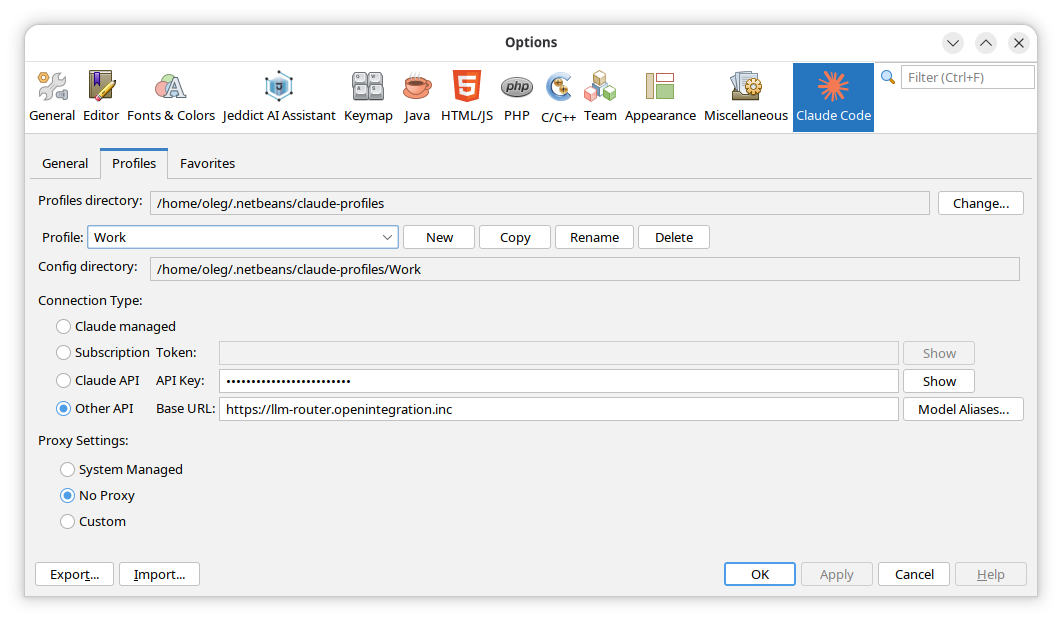
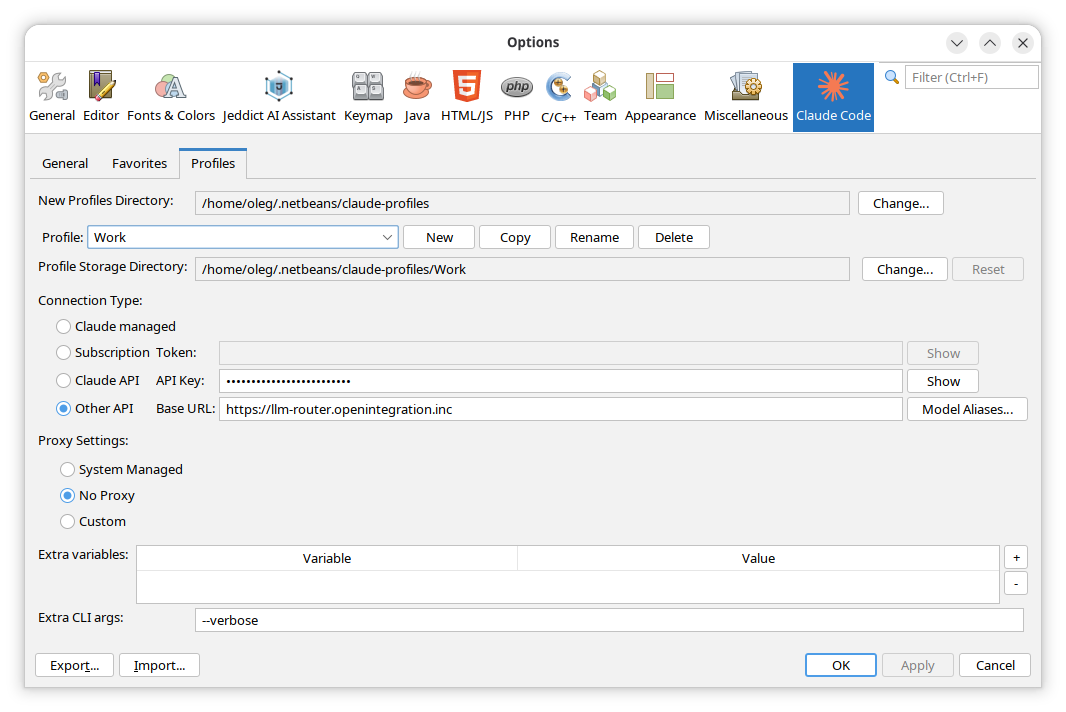
Added capability of changing the profile storage directory and sharing a single directory with several profiles (#9)
When a non-default profile's storage directory is explicitly set to the
same path as the default (~/.claude), the plugin no longer sets
CLAUDE_CONFIG_DIR — Claude already uses that directory without any
override.

diff --git a/src/main/java/io/github/nbclaudecodegui/settings/ClaudeProfilesPanel.java b/src/main/java/io/github/nbclaudecodegui/settings/ClaudeProfilesPanel.java
@@ -88,8 +88,12 @@ public final class ClaudeProfilesPanel extends JPanel {
     private JButton renameButton;
     /** Button to delete the current profile. */
     private JButton deleteButton;
-    /** Field showing the configuration directory for the selected profile. */
-    private JTextField configDirField;
+    /** Field showing the storage directory for the selected profile. */
+    private JTextField storageDirField;
+    /** Button to set a custom storage directory for the selected profile. */
+    private JButton changeStorageDirButton;
+    /** Button to reset the storage directory to the computed default. */
+    private JButton resetStorageDirButton;
     /** Field for extra CLI arguments passed to the claude process. */
     private JTextField extraCliArgsField;
 
@@ -224,13 +228,19 @@ public final class ClaudeProfilesPanel extends JPanel {
         mainPanel.add(profileRow, rowGbc);
         row++;
 
-        // --- Config directory (read-only) ---
+        // --- Storage directory row ---
         mainPanel.add(new JLabel("Profile Storage Directory:"), gbc(0, row, false));
-        configDirField = new JTextField(40);
-        configDirField.setEditable(false);
-        GridBagConstraints cfgGbc = gbcFill(1, row);
-        cfgGbc.gridwidth = 2;
-        mainPanel.add(configDirField, cfgGbc);
+        storageDirField = new JTextField(40);
+        storageDirField.setEditable(false);
+        mainPanel.add(storageDirField, gbcFill(1, row));
+        JPanel storageDirButtons = new JPanel(new FlowLayout(FlowLayout.LEFT, 4, 0));
+        changeStorageDirButton = new JButton("Change\u2026");
+        changeStorageDirButton.addActionListener(e -> onChangeStorageDir());
+        resetStorageDirButton = new JButton("Reset");
+        resetStorageDirButton.addActionListener(e -> onResetStorageDir());
+        storageDirButtons.add(changeStorageDirButton);
+        storageDirButtons.add(resetStorageDirButton);
+        mainPanel.add(storageDirButtons, gbc(2, row, false));
         row++;
 
         // --- Connection type section ---
@@ -626,13 +636,8 @@ public final class ClaudeProfilesPanel extends JPanel {
         renameButton.setEnabled(!def);
         deleteButton.setEnabled(!def);
 
-        // Config directory
-        if (def) {
-            configDirField.setText("~/.claude  (not overridden)");
-        } else {
-            Path profilesDir = ClaudeCodePreferences.getProfilesDir();
-            configDirField.setText(ClaudeProfileStore.resolveConfigDir(p, profilesDir).toAbsolutePath().toString());
-        }
+        // Storage directory
+        refreshStorageDirField(p);
 
         // Connection type
         ClaudeProfile.ConnectionType ct = p.computeConnectionType();
@@ -810,6 +815,46 @@ public final class ClaudeProfilesPanel extends JPanel {
             // Refresh config dir display for current profile
             ClaudeProfile p = currentProfile();
             if (p != null) loadProfileIntoForm(p);
+        }
+    }
+
+    private void onChangeStorageDir() {
+        ClaudeProfile p = currentFormProfile;
+        if (p == null || p.isDefault()) return;
+        JFileChooser chooser = new JFileChooser();
+        chooser.setFileSelectionMode(JFileChooser.DIRECTORIES_ONLY);
+        String current = p.getStorageDir();
+        if (!current.isBlank()) {
+            chooser.setCurrentDirectory(new File(current));
+        } else {
+            Path profilesDir = ClaudeCodePreferences.getProfilesDir();
+            chooser.setCurrentDirectory(ClaudeProfileStore.resolveStorageDir(p, profilesDir).toFile());
+        }
+        if (chooser.showOpenDialog(this) == JFileChooser.APPROVE_OPTION) {
+            p.withStorageDir(chooser.getSelectedFile().getAbsolutePath());
+            refreshStorageDirField(p);
+        }
+    }
+
+    private void onResetStorageDir() {
+        ClaudeProfile p = currentFormProfile;
+        if (p == null || p.isDefault()) return;
+        p.withStorageDir("");
+        refreshStorageDirField(p);
+    }
+
+    private void refreshStorageDirField(ClaudeProfile p) {
+        if (p.isDefault()) {
+            storageDirField.setText("~/.claude  (not overridden)");
+            changeStorageDirButton.setEnabled(false);
+            resetStorageDirButton.setEnabled(false);
+        } else {
+            Path profilesDir = ClaudeCodePreferences.getProfilesDir();
+            String resolved = ClaudeProfileStore.resolveStorageDir(p, profilesDir).toAbsolutePath().toString();
+            boolean isCustom = !p.getStorageDir().isBlank();
+            storageDirField.setText(isCustom ? resolved + "  (custom)" : resolved);
+            changeStorageDirButton.setEnabled(true);
+            resetStorageDirButton.setEnabled(isCustom);
         }
     }
 

diff --git a/src/main/java/io/github/nbclaudecodegui/settings/ClaudeProfile.java b/src/main/java/io/github/nbclaudecodegui/settings/ClaudeProfile.java
@@ -150,6 +150,13 @@ public final class ClaudeProfile {
      */
     private String extraCliArgs;
 
+    /**
+     * Explicit storage directory for {@code CLAUDE_CONFIG_DIR}.
+     * When blank, the computed path {@code <profilesDir>/<id>} is used.
+     * When non-blank, this exact path is used as-is.
+     */
+    private String storageDir;
+
     // -------------------------------------------------------------------------
     // No-arg constructor (Jackson)
     // -------------------------------------------------------------------------
@@ -169,6 +176,7 @@ public final class ClaudeProfile {
         this.modelAliases  = new HashMap<>();
         this.customModels  = new ArrayList<>();
         this.extraCliArgs  = "";
+        this.storageDir    = "";
     }
 
     // -------------------------------------------------------------------------
@@ -545,6 +553,35 @@ public final class ClaudeProfile {
      */
     public void setExtraCliArgs(String extraCliArgs) {
         this.extraCliArgs = extraCliArgs != null ? extraCliArgs : "";
+    }
+
+    /**
+     * Returns the explicit storage directory for {@code CLAUDE_CONFIG_DIR}.
+     * A blank value means the computed path {@code <profilesDir>/<id>} is used.
+     *
+     * @return explicit storage dir, or {@code ""} if not set
+     */
+    public String getStorageDir() { return storageDir != null ? storageDir : ""; }
+
+    /**
+     * Sets the explicit storage directory for {@code CLAUDE_CONFIG_DIR}.
+     * Pass blank or {@code null} to fall back to the computed path.
+     *
+     * @param storageDir explicit path; {@code null} is treated as empty
+     */
+    public void setStorageDir(String storageDir) {
+        this.storageDir = storageDir != null ? storageDir : "";
+    }
+
+    /**
+     * Fluent setter for {@link #setStorageDir(String)}.
+     *
+     * @param storageDir explicit path; {@code null} clears the override
+     * @return this profile instance
+     */
+    public ClaudeProfile withStorageDir(String storageDir) {
+        setStorageDir(storageDir);
+        return this;
     }
 
     // -------------------------------------------------------------------------

diff --git a/src/main/java/io/github/nbclaudecodegui/settings/ClaudeProfileStore.java b/src/main/java/io/github/nbclaudecodegui/settings/ClaudeProfileStore.java
@@ -206,21 +206,37 @@ public final class ClaudeProfileStore {
     }
 
     /**
-     * Returns the {@code CLAUDE_CONFIG_DIR} path for a non-Default profile.
+     * Returns the storage directory (used as {@code CLAUDE_CONFIG_DIR}) for a
+     * non-Default profile.
      *
-     * <p>The path is {@code <profilesDir>/<profile.getId()>/}.
+     * <p>If the profile has an explicit {@link ClaudeProfile#getStorageDir()} set,
+     * that path is returned as-is.  Otherwise the computed path
+     * {@code <profilesDir>/<profile.getId()>} is used.
      *
-     * @param profile    the profile (must not be Default)
-     * @param profilesDir base directory for profile config dirs
+     * @param profile     the profile (must not be Default)
+     * @param profilesDir base directory for per-profile config dirs; used only
+     *                    when no explicit path is set
      * @return absolute path to this profile's config directory
      * @throws IllegalArgumentException if {@code profile.isDefault()} is {@code true}
      */
-    public static Path resolveConfigDir(ClaudeProfile profile, Path profilesDir) {
+    public static Path resolveStorageDir(ClaudeProfile profile, Path profilesDir) {
         if (profile.isDefault()) {
             throw new IllegalArgumentException(
                     "Default profile has no isolated config dir; caller must not set CLAUDE_CONFIG_DIR.");
         }
+        String explicit = profile.getStorageDir();
+        if (explicit != null && !explicit.isBlank()) {
+            return Path.of(explicit);
+        }
         return profilesDir.resolve(profile.getId());
+    }
+
+    /**
+     * @deprecated Use {@link #resolveStorageDir(ClaudeProfile, Path)} instead.
+     */
+    @Deprecated
+    public static Path resolveConfigDir(ClaudeProfile profile, Path profilesDir) {
+        return resolveStorageDir(profile, profilesDir);
     }
 
     /**

diff --git a/src/main/java/io/github/nbclaudecodegui/process/ClaudeProcess.java b/src/main/java/io/github/nbclaudecodegui/process/ClaudeProcess.java
@@ -577,13 +577,18 @@ public final class ClaudeProcess {
         env.put("TERM", "xterm-256color");
 
         if (profile != null && !profile.isDefault()) {
-            // Set isolated CLAUDE_CONFIG_DIR for this profile
-            java.nio.file.Path configDir = ClaudeProfileStore.resolveConfigDir(profile, profilesDir);
-            env.put("CLAUDE_CONFIG_DIR", configDir.toAbsolutePath().toString());
-            try {
-                java.nio.file.Files.createDirectories(configDir);
-            } catch (java.io.IOException e) {
-                LOG.warning("Could not create profile config dir " + configDir + ": " + e.getMessage());
+            // Set isolated CLAUDE_CONFIG_DIR for this profile, unless the resolved
+            // directory is the same as the default (~/.claude) — in that case Claude
+            // already uses that directory without any override.
+            java.nio.file.Path configDir = ClaudeProfileStore.resolveStorageDir(profile, profilesDir);
+            java.nio.file.Path defaultClaudeDir = java.nio.file.Path.of(System.getProperty("user.home"), ".claude");
+            if (!configDir.toAbsolutePath().equals(defaultClaudeDir.toAbsolutePath())) {
+                env.put("CLAUDE_CONFIG_DIR", configDir.toAbsolutePath().toString());
+                try {
+                    java.nio.file.Files.createDirectories(configDir);
+                } catch (java.io.IOException e) {
+                    LOG.warning("Could not create profile config dir " + configDir + ": " + e.getMessage());
+                }
             }
         }
 

diff --git a/src/test/java/io/github/nbclaudecodegui/settings/ClaudeProfileTest.java b/src/test/java/io/github/nbclaudecodegui/settings/ClaudeProfileTest.java
@@ -346,4 +346,43 @@ class ClaudeProfileTest {
         p.setExtraCliArgs(null);
         assertEquals("", p.getExtraCliArgs());
     }
+
+    // -------------------------------------------------------------------------
+    // storageDir
+    // -------------------------------------------------------------------------
+
+    @Test
+    void storageDir_defaultIsEmpty() {
+        assertEquals("", ClaudeProfile.createNamed("P").getStorageDir());
+    }
+
+    @Test
+    void storageDir_setAndGet() {
+        ClaudeProfile p = ClaudeProfile.createNamed("P");
+        p.setStorageDir("/my/custom/dir");
+        assertEquals("/my/custom/dir", p.getStorageDir());
+    }
+
+    @Test
+    void storageDir_nullTreatedAsEmpty() {
+        ClaudeProfile p = ClaudeProfile.createNamed("P");
+        p.setStorageDir(null);
+        assertEquals("", p.getStorageDir());
+    }
+
+    @Test
+    void storageDir_fluentSetter() {
+        ClaudeProfile p = ClaudeProfile.createNamed("P").withStorageDir("/x/y");
+        assertEquals("/x/y", p.getStorageDir());
+    }
+
+    @Test
+    void storageDir_jacksonRoundTrip() throws Exception {
+        com.fasterxml.jackson.databind.ObjectMapper mapper = new com.fasterxml.jackson.databind.ObjectMapper();
+        ClaudeProfile p = ClaudeProfile.createNamed("P");
+        p.setStorageDir("/custom/path");
+        String json = mapper.writeValueAsString(p);
+        ClaudeProfile loaded = mapper.readValue(json, ClaudeProfile.class);
+        assertEquals("/custom/path", loaded.getStorageDir());
+    }
 }

diff --git a/src/test/java/io/github/nbclaudecodegui/settings/ClaudeProfileStoreTest.java b/src/test/java/io/github/nbclaudecodegui/settings/ClaudeProfileStoreTest.java
@@ -202,4 +202,33 @@ class ClaudeProfileStoreTest {
         assertEquals(1, loaded.size());
         assertEquals("--verbose --model foo", loaded.get(0).getExtraCliArgs());
     }
+
+    // -------------------------------------------------------------------------
+    // resolveStorageDir
+    // -------------------------------------------------------------------------
+
+    @Test
+    void resolveStorageDir_computed() {
+        ClaudeProfile p = ClaudeProfile.createNamed("MyProfile");
+        Path profilesDir = Path.of("/base/profiles");
+        Path result = ClaudeProfileStore.resolveStorageDir(p, profilesDir);
+        assertEquals(Path.of("/base/profiles/MyProfile"), result);
+    }
+
+    @Test
+    void resolveStorageDir_explicit() {
+        ClaudeProfile p = ClaudeProfile.createNamed("MyProfile");
+        p.withStorageDir("/my/custom/dir");
+        Path profilesDir = Path.of("/base/profiles");
+        Path result = ClaudeProfileStore.resolveStorageDir(p, profilesDir);
+        assertEquals(Path.of("/my/custom/dir"), result);
+    }
+
+    @Test
+    void resolveStorageDir_default_throws() {
+        ClaudeProfile def = ClaudeProfile.createDefault();
+        Path profilesDir = Path.of("/base/profiles");
+        assertThrows(IllegalArgumentException.class,
+                () -> ClaudeProfileStore.resolveStorageDir(def, profilesDir));
+    }
 }

diff --git a/src/test/java/io/github/nbclaudecodegui/process/ClaudeProcessProfileTest.java b/src/test/java/io/github/nbclaudecodegui/process/ClaudeProcessProfileTest.java
@@ -51,6 +51,18 @@ class ClaudeProcessProfileTest {
         assertEquals(expected, env.get("CLAUDE_CONFIG_DIR"));
     }
 
+    @Test
+    void buildEnv_namedProfile_storageDirMatchesDefault_noClaudeConfigDir() {
+        // If a non-default profile's storage dir is explicitly set to ~/.claude
+        // (same as the default), CLAUDE_CONFIG_DIR must NOT be set.
+        Path defaultClaudeDir = Path.of(System.getProperty("user.home"), ".claude");
+        ClaudeProfile p = ClaudeProfile.createNamed("SameAsDefault");
+        p.setStorageDir(defaultClaudeDir.toString());
+        Map<String, String> env = ClaudeProcess.buildEnv(p, PROFILES_DIR);
+        assertFalse(env.containsKey("CLAUDE_CONFIG_DIR"),
+                "CLAUDE_CONFIG_DIR must not be set when storage dir equals ~/.claude");
+    }
+
     // -------------------------------------------------------------------------
     // Auth injection
     // -------------------------------------------------------------------------

diff --git a/src/main/java/io/github/nbclaudecodegui/ui/ClaudeSessionTab.java b/src/main/java/io/github/nbclaudecodegui/ui/ClaudeSessionTab.java
@@ -900,7 +900,7 @@ public class ClaudeSessionTab extends TopComponent
             io.github.nbclaudecodegui.settings.ClaudeProfile profile =
                     io.github.nbclaudecodegui.settings.ClaudeProfileStore.findByName(profileName);
             if (profile != null) {
-                claudeConfigDir = io.github.nbclaudecodegui.settings.ClaudeProfileStore.resolveConfigDir(
+                claudeConfigDir = io.github.nbclaudecodegui.settings.ClaudeProfileStore.resolveStorageDir(
                         profile, ClaudeCodePreferences.getProfilesDir());
             }
         }

diff --git a/src/main/java/org/openbeans/claude/netbeans/ClaudeCodeStatusLineElement.java b/src/main/java/org/openbeans/claude/netbeans/ClaudeCodeStatusLineElement.java
@@ -119,7 +119,7 @@ public class ClaudeCodeStatusLineElement implements StatusLineElementProvider {
         if (profileName != null && !ClaudeProfile.DEFAULT_NAME.equals(profileName)) {
             ClaudeProfile profile = ClaudeProfileStore.findByName(profileName);
             if (profile != null) {
-                claudeConfigDir = ClaudeProfileStore.resolveConfigDir(
+                claudeConfigDir = ClaudeProfileStore.resolveStorageDir(
                         profile, ClaudeCodePreferences.getProfilesDir());
             }
         }

diff --git a/src/main/java/io/github/nbclaudecodegui/ui/ClaudeSessionSelectorPanel.java b/src/main/java/io/github/nbclaudecodegui/ui/ClaudeSessionSelectorPanel.java
@@ -417,7 +417,7 @@ public final class ClaudeSessionSelectorPanel extends JPanel {
         ClaudeProfile p = ClaudeProfileStore.findByName(profileName);
         if (p == null) return null;
         return io.github.nbclaudecodegui.settings.ClaudeProfileStore
-                .resolveConfigDir(p, ClaudeCodePreferences.getProfilesDir());
+                .resolveStorageDir(p, ClaudeCodePreferences.getProfilesDir());
     }
 
     private void onBrowse() {

diff --git a/docs/user-manual.md b/docs/user-manual.md
@@ -383,7 +383,21 @@ Named profiles are stored under a common base directory (default: `~/.netbeans/c
 
 The base directory only affects newly created profiles. To move existing profiles to a new location, manually move their subdirectories to the new location first, then update the directory via the **New Profiles Directory** field (click **Change…**).
 
-The read-only **Profile Storage Directory** field shows the storage path for the selected profile. For the Default profile it shows `~/.claude (not overridden)`.
+The **Profile Storage Directory** field shows where Claude Code stores its configuration
+for the selected profile. For the **Default** profile it shows `~/.claude  (not overridden)`
+and the buttons are disabled. For named profiles:
+
+- **Computed path** (default) — `<profilesDir>/<profile-name>`. The field shows the path
+  with no suffix.
+- **Custom path** — any directory you choose. The field shows the path with a `(custom)` suffix.
+
+| Button | Effect |
+|--------|--------|
+| **Change…** | Opens a directory chooser. The chosen path is stored with the profile and used as `CLAUDE_CONFIG_DIR` when a session starts. |
+| **Reset** | Clears the custom path and reverts to the computed default. Enabled only when a custom path is set. |
+
+> **Tip:** Use a custom path to share a single Claude Code configuration directory across
+> multiple profiles, or to point a profile at an existing `~/.claude`-style directory.
 
 ### Managing profiles
 
@@ -393,7 +407,6 @@ The read-only **Profile Storage Directory** field shows the storage path for the
 | **Copy** | Duplicate the currently selected profile |
 | **Rename** | Rename the currently selected profile |
 | **Delete** | Delete the currently selected profile |
-| **Change…** | Change the profile storage directory |
 
 ### Authentication
 

diff --git a/CHANGELOG.md b/CHANGELOG.md
@@ -1,3 +1,4 @@
+- Added capability of changing the profile storage directory and sharing a single directory with several profiles
 - Fixed drag-and-drop into text fields: files are now inserted at the text caret position instead of where the mouse was dropped
 - Fixed Accept/Decline and Yes/No button colors to respect the IDE Look and Feel theme (dark themes no longer show clashing hardcoded colors)
 - Added session management when opening a session from the toolbar and when closing a tab via the Close button
